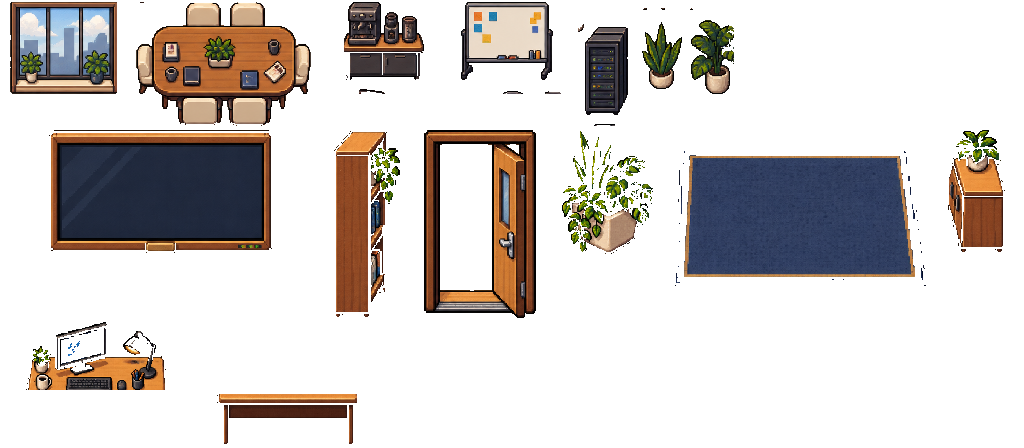
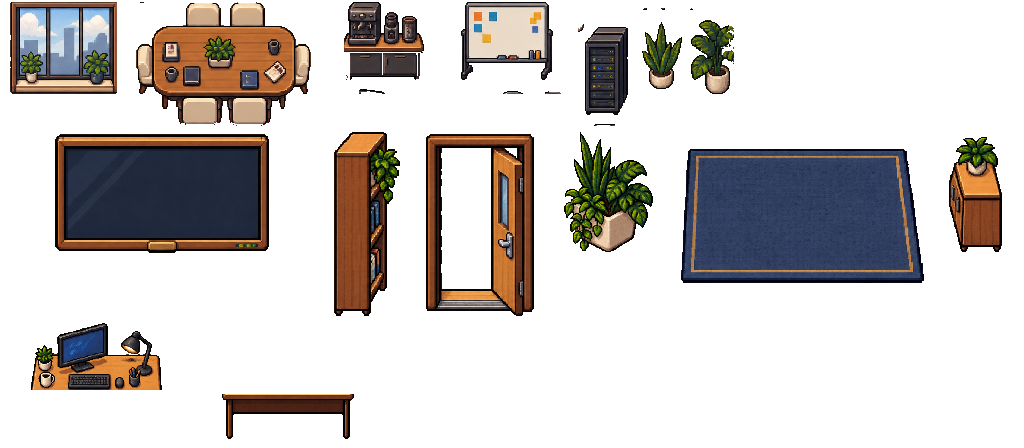
fix(web): preserve opaque office sprites

diff --git a/apps/server/tests/test_auth_office_asset_pipeline.py b/apps/server/tests/test_auth_office_asset_pipeline.py
@@ -1,0 +1,49 @@
+import importlib.util
+from pathlib import Path
+
+from PIL import Image
+
+ROOT = Path(__file__).resolve().parents[3]
+SOURCE = ROOT / "apps/web/public/assets/office-game/eidolon-default/source"
+RUNTIME = ROOT / "apps/web/public/assets/office-game/eidolon-default/runtime"
+PROCESSOR_PATH = ROOT / "scripts/process_auth_office_assets.py"
+
+PROCESSOR_SPEC = importlib.util.spec_from_file_location(
+    "process_auth_office_assets", PROCESSOR_PATH
+)
+assert PROCESSOR_SPEC is not None and PROCESSOR_SPEC.loader is not None
+PROCESSOR = importlib.util.module_from_spec(PROCESSOR_SPEC)
+PROCESSOR_SPEC.loader.exec_module(PROCESSOR)
+make_object_atlas = PROCESSOR.make_object_atlas
+make_tiles = PROCESSOR.make_tiles
+
+
+def test_checked_in_office_tiles_match_binary_pipeline() -> None:
+    source = Image.new("RGBA", (1536, 1024), (120, 80, 40, 200))
+    synthetic_tiles = make_tiles(source)
+    generated_tiles = make_tiles(Image.open(SOURCE / "office-objects-concepts-v1.png"))
+    runtime_tiles = Image.open(RUNTIME / "office-tiles.png")
+
+    alpha_values = {
+        value for value, count in enumerate(synthetic_tiles.getchannel("A").histogram()) if count
+    }
+    assert alpha_values <= {0, 255}
+    assert runtime_tiles.size == generated_tiles.size
+    assert runtime_tiles.tobytes() == generated_tiles.tobytes()
+
+
+def test_runtime_atlas_preserves_opaque_workstation_details() -> None:
+    objects = Image.open(SOURCE / "office-objects-concepts-v1.png")
+    additions = Image.open(SOURCE / "office-layout-additions-v2.png")
+
+    atlas, frames = make_object_atlas(objects, additions)
+    runtime_atlas = Image.open(RUNTIME / "office-objects.png")
+    workstation = frames["workstation-back"]
+
+    monitor_screen = (workstation["x"] + 80, workstation["y"] + 25)
+    lamp_shade = (workstation["x"] + 128, workstation["y"] + 28)
+
+    assert atlas.getpixel(monitor_screen)[3] == 255
+    assert atlas.getpixel(lamp_shade)[3] == 255
+    assert runtime_atlas.size == atlas.size
+    assert runtime_atlas.tobytes() == atlas.tobytes()

diff --git a/scripts/process_auth_office_assets.py b/scripts/process_auth_office_assets.py
@@ -61,6 +61,13 @@ def transparent_crop(
     return crop.crop(bounds) if bounds else crop
 
 
+def alpha_crop(image: Image.Image, box: tuple[int, int, int, int]) -> Image.Image:
+    """Crop generated art using its embedded alpha mask without erasing interior detail."""
+    crop = image.crop(box).convert("RGBA")
+    bounds = crop.getbbox()
+    return crop.crop(bounds) if bounds else crop
+
+
 def fit_pixel(
     source: Image.Image, size: tuple[int, int], padding: int = 0
 ) -> Image.Image:
@@ -172,7 +179,7 @@ def make_tiles(source: Image.Image) -> Image.Image:
             source.crop(box).convert("RGBA").resize((32, 32), Image.Resampling.NEAREST)
         )
         tiles.alpha_composite(ImageEnhance.Color(tile).enhance(0.78), (index * 32, 0))
-    return tiles
+    return quantize_pixel_alpha(tiles)
 
 
 def make_object_atlas(
@@ -213,13 +220,13 @@ def make_object_atlas(
 
     addition_items = {
         name: quantize_pixel_alpha(
-            fit_pixel(transparent_crop(additions, box, threshold=22), size, padding=2)
+            fit_pixel(alpha_crop(additions, box), size, padding=2)
         )
         for name, (box, size) in addition_definitions.items()
     }
     workstation = quantize_pixel_alpha(
         fit_pixel(
-            transparent_crop(additions, (26, 528, 446, 920), threshold=22),
+            alpha_crop(additions, (26, 528, 446, 920)),
             (192, 128),
             padding=2,
         )
@@ -251,7 +258,9 @@ def main() -> None:
     assert_binary_alpha(character_sheet, "employee sprite sheet")
     character_sheet.save(RUNTIME / "employees.png", optimize=True)
 
-    make_tiles(objects).save(RUNTIME / "office-tiles.png", optimize=True)
+    tiles = make_tiles(objects)
+    assert_binary_alpha(tiles, "office tileset")
+    tiles.save(RUNTIME / "office-tiles.png", optimize=True)
     object_atlas, frames = make_object_atlas(objects, additions)
     assert_binary_alpha(object_atlas, "office object atlas")
     object_atlas.save(RUNTIME / "office-objects.png", optimize=True)
